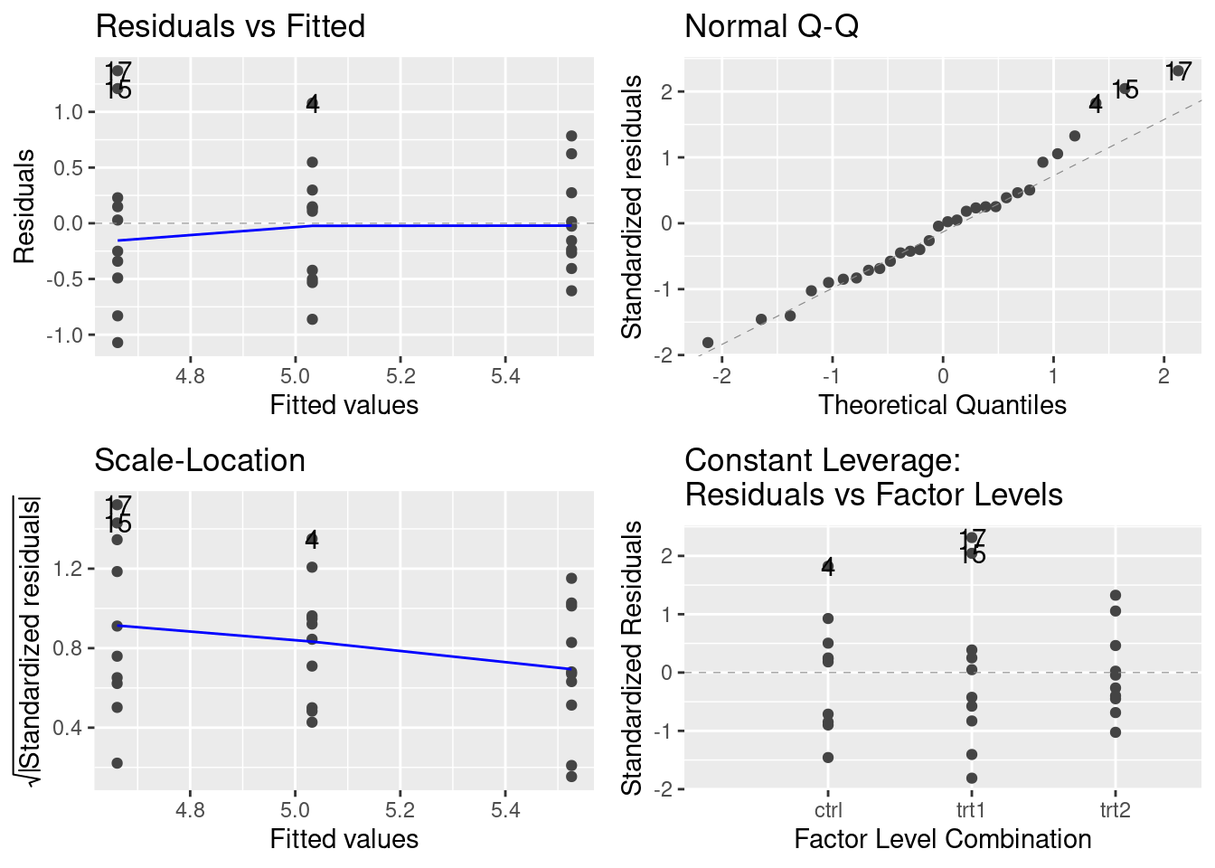
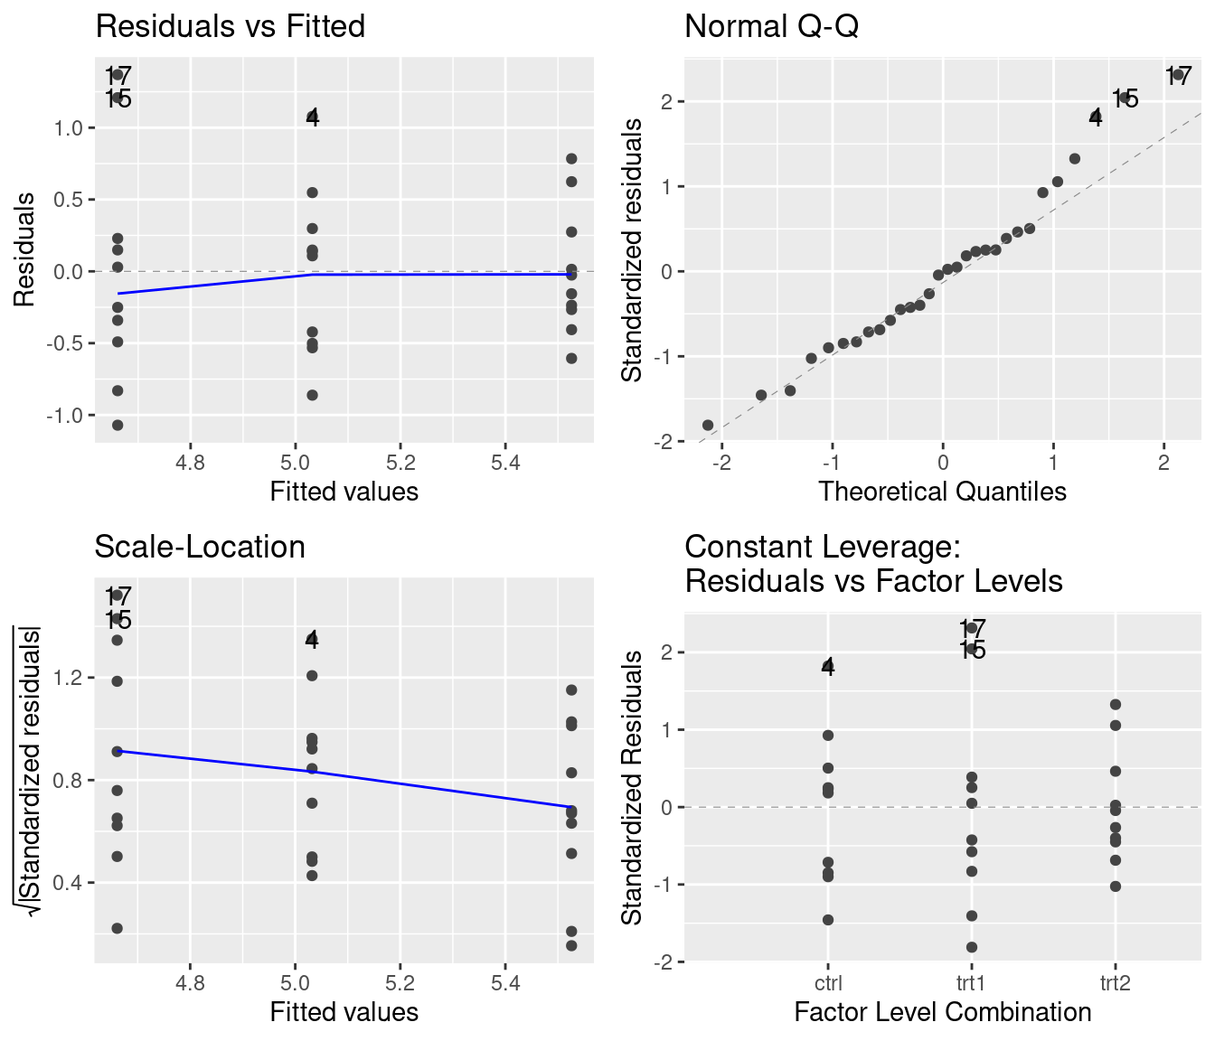
Reworked description of diagnostic plots in ANOVA chapter; changed diagnostic plot layouts everywhere in the book

diff --git a/docs/Anova.html b/docs/Anova.html
@@ -555,22 +555,22 @@ F-statistic: 4.846 on 2 and 27 DF,  p-value: 0.01591</code></pre>
 <p><img src="Anova_files/figure-html/unnamed-chunk-16-1.png" class="img-fluid" width="672"></p>
 </div>
 </div>
-<p>We see four plots above. The top left of these shows the residuals against the fitted values (notice that the three values along the x-axis correspond to the means of the three groups <code>ctrl</code>, <code>trt1</code>, and <code>trt2</code>). If the points have no trend of increase or decrease, and the spread of the points is roughly constant, then they adhere to ANOVA assumptions. The blue line is a moving regression line which helps decide whether there is a trend; in this case, it would be hard to argue that any trend is due to something else than chance.</p>
-<p>The bottom left plot is much the same as the top left one, except that it takes the absolute values of the residuals. This is done because, since residuals will by definition be more or less symmetrically distributed around zero, one can effectively double the precision of the diagnostic by focusing only on magnitudes. For statistical reasons that do not concern us here, the square roots of these absolute values tend to behave much better, which is why we see the square root being taken along the y-axis. The blue line is again a locally-weighted estimate, which ought to be as flat as possible. In this case, we see that it more or less is.</p>
-<p>The top right graph offers a visualization of how well the residuals follow a normal distribution. The idea behind this <em>quantile-quantile plot</em> (Q–Q plot) is that if the residuals are indeed normally distributed, then we can line them up in increasing order along the x-axis, and for each of them, plot the theoretically expected value (based on normality) along the y-axis. If these observed vs.&nbsp;theoretically predicted values fall on the identity line, then there is a perfect match between theory and observation, and the residuals are normally distributed. The stronger the deviation from the dashed line indicating a perfect theoretical match,<a href="#fn3" class="footnote-ref" id="fnref3" role="doc-noteref"><sup>3</sup></a> the more non-normal the residuals are.</p>
+<p>We see four plots above. The top left of these shows the residuals against the fitted values (notice that the three values along the x-axis correspond to the means of the three groups <code>ctrl</code>, <code>trt1</code>, and <code>trt2</code>). If the points have no trends of increase, decrease, valleys, or humps, and the spread of the points is roughly constant, then they adhere to ANOVA assumptions. The blue line is a moving regression line which helps decide whether there is a trend; in this case, it would be hard to argue that any trend is due to something else than chance.</p>
+<p>The bottom left plot is much the same as the top left one, except it takes the absolute values of the residuals. This is done because, since residuals will by definition be more or less symmetrically distributed around zero, one can effectively double the precision of the diagnostic by focusing only on magnitudes. For statistical reasons that do not concern us here, the square roots of these absolute values tend to behave much better, which is why we see the square root being taken along the y-axis. This plot is good for spotting whether the variance of the residuals depends on the fitted values. To satisfy the requirements of ANOVA, there should be no such dependence.<a href="#fn3" class="footnote-ref" id="fnref3" role="doc-noteref"><sup>3</sup></a> The blue line is again a locally-weighted estimate, which ought to be as flat as possible.</p>
+<p>The top right graph offers a visualization of how well the residuals follow a normal distribution. The idea behind this <em>quantile-quantile plot</em> (Q-Q plot) is that if the residuals are indeed normally distributed, then we can line them up in increasing order along the x-axis, and for each of them, plot the theoretically expected value (based on normality) along the y-axis. If these observed vs.&nbsp;theoretically predicted values fall on the dashed straight line, then there is a perfect match between theory and observation, and the residuals are normally distributed. The stronger the deviation from the dashed line indicating a perfect theoretical match, the more non-normal the residuals are.</p>
 <p>The bottom right graph measures the “leverage” of each point, which is a measure of how sensitively the regression reacts to removing one data point. We will not be concerned with this plot.</p>
-<p>In fact, we can remove this graph from the diagnostic plots. We may even remove the top left one, since the bottom left carries the same information in a better way. Further, we can also remove the blue lines, which often do more to confuse than to help. (For example, one can see a slight downward trend in the blue line in the bottom left graph. Looking at all points together reveals how little this trend means.) To select only the bottom-left and top-right diagnostic plots, one can pass the argument <code>which = 3:2</code> to <code>autoplot</code>, which chooses just the third and second of the graphs (in that order). In turn, the <code>smooth.colour = NA</code> argument will remove the blue lines:</p>
+<p>The blue smoother lines in the left two plots often do more to confuse than to help. For example, one can see a slight downward trend in the blue line in the bottom left graph, but looking at all points together reveals how little this trend means. The <code>smooth.colour = NA</code> argument removes the blue lines:</p>
 <div class="cell">
 <div class="sourceCode cell-code" id="cb29"><pre class="sourceCode r code-with-copy"><code class="sourceCode r"><span id="cb29-1"><a href="#cb29-1" aria-hidden="true" tabindex="-1"></a><span class="fu">lm</span>(weight <span class="sc">~</span> group, <span class="at">data =</span> PlantGrowth) <span class="sc">|&gt;</span></span>
-<span id="cb29-2"><a href="#cb29-2" aria-hidden="true" tabindex="-1"></a>  <span class="fu">autoplot</span>(<span class="at">which =</span> <span class="dv">3</span><span class="sc">:</span><span class="dv">2</span>, <span class="at">smooth.colour =</span> <span class="cn">NA</span>)</span></code><button title="Copy to Clipboard" class="code-copy-button"><i class="bi"></i></button></pre></div>
+<span id="cb29-2"><a href="#cb29-2" aria-hidden="true" tabindex="-1"></a>  <span class="fu">autoplot</span>(<span class="at">smooth.colour =</span> <span class="cn">NA</span>)</span></code><button title="Copy to Clipboard" class="code-copy-button"><i class="bi"></i></button></pre></div>
 <div class="cell-output-display">
 <p><img src="Anova_files/figure-html/unnamed-chunk-17-1.png" class="img-fluid" width="672"></p>
 </div>
 </div>
-<p>One may can go even further. Since <code>autoplot</code> returns a standard <code>ggplot</code> object, we can add various theme options:</p>
+<p>One may can go even further. Since <code>autoplot</code> returns a <code>ggplot</code> object, we can add various theme options to make the plot prettier. We can also increase the transparency of the points to better see where and how much they overlap with one another:</p>
 <div class="cell">
 <div class="sourceCode cell-code" id="cb30"><pre class="sourceCode r code-with-copy"><code class="sourceCode r"><span id="cb30-1"><a href="#cb30-1" aria-hidden="true" tabindex="-1"></a><span class="fu">lm</span>(weight <span class="sc">~</span> group, <span class="at">data =</span> PlantGrowth) <span class="sc">|&gt;</span></span>
-<span id="cb30-2"><a href="#cb30-2" aria-hidden="true" tabindex="-1"></a>  <span class="fu">autoplot</span>(<span class="at">which=</span><span class="dv">3</span><span class="sc">:</span><span class="dv">2</span>, <span class="at">smooth.colour=</span><span class="cn">NA</span>, <span class="at">colour=</span><span class="st">"steelblue"</span>, <span class="at">alpha=</span><span class="fl">0.7</span>) <span class="sc">+</span></span>
+<span id="cb30-2"><a href="#cb30-2" aria-hidden="true" tabindex="-1"></a>  <span class="fu">autoplot</span>(<span class="at">smooth.colour =</span> <span class="cn">NA</span>, <span class="at">colour =</span> <span class="st">"steelblue"</span>, <span class="at">alpha =</span> <span class="fl">0.7</span>) <span class="sc">+</span></span>
 <span id="cb30-3"><a href="#cb30-3" aria-hidden="true" tabindex="-1"></a>  <span class="fu">theme_bw</span>()</span></code><button title="Copy to Clipboard" class="code-copy-button"><i class="bi"></i></button></pre></div>
 <div class="cell-output-display">
 <p><img src="Anova_files/figure-html/unnamed-chunk-18-1.png" class="img-fluid" width="672"></p>
@@ -639,7 +639,7 @@ trt2-trt1  0.865  0.1737839 1.5562161 0.0120064</code></pre>
 <ol>
 <li id="fn1"><p>In <a href="Anova_two_way.html"><span>Chapter&nbsp;12</span></a> we will see examples where multiple independent factors are varied, and each possible combination results in a separate group. For example, if the effects of three different dosages of vitamin C are examined on the tooth growth of Guinea pigs, and the vitamin is also supplied in two distinct forms of either orange juice or raw ascorbic acid, then there will be <span class="math inline">\(3 \cdot 2 = 6\)</span> groups, defined by the two factors of dosage and form of supplement.<a href="#fnref1" class="footnote-back" role="doc-backlink">↩</a></p></li>
 <li id="fn2"><p>The Kruskal–Wallis test is sometimes referred to as “non-parametric ANOVA”. While this is perfectly fine as a label, one should be aware that it is, strictly speaking, a misnomer: the Kruskal–Wallis test does not rely on computing variances at all.<a href="#fnref2" class="footnote-back" role="doc-backlink">↩</a></p></li>
-<li id="fn3"><p>Since the comparison is against the <em>standard</em> normal distribution with variance 1, but the data might have any variance, the dashed line might not correspond to the identity line, but to some other straight line. It is still true that the closer the data fall to it, the more perfectly normal the residuals are.<a href="#fnref3" class="footnote-back" role="doc-backlink">↩</a></p></li>
+<li id="fn3"><p>In technical terms, the variation should be <em>homoscedastic</em> (be approximately the same for all values of the predictor) as opposed to <em>heteroscedastic</em>.<a href="#fnref3" class="footnote-back" role="doc-backlink">↩</a></p></li>
 </ol>
 </section>
 

diff --git a/docs/Linear_regression.html b/docs/Linear_regression.html
@@ -419,7 +419,7 @@ F-statistic: 360.9 on 1 and 1076 DF,  p-value: &lt; 2.2e-16</code></pre>
 <div class="sourceCode cell-code" id="cb9"><pre class="sourceCode r code-with-copy"><code class="sourceCode r"><span id="cb9-1"><a href="#cb9-1" aria-hidden="true" tabindex="-1"></a><span class="fu">library</span>(ggfortify)</span>
 <span id="cb9-2"><a href="#cb9-2" aria-hidden="true" tabindex="-1"></a></span>
 <span id="cb9-3"><a href="#cb9-3" aria-hidden="true" tabindex="-1"></a><span class="fu">lm</span>(Son <span class="sc">~</span> Father, <span class="at">data =</span> heightDat) <span class="sc">|&gt;</span></span>
-<span id="cb9-4"><a href="#cb9-4" aria-hidden="true" tabindex="-1"></a>  <span class="fu">autoplot</span>(<span class="at">which=</span><span class="dv">3</span><span class="sc">:</span><span class="dv">2</span>, <span class="at">smooth.colour=</span><span class="cn">NA</span>, <span class="at">colour=</span><span class="st">"steelblue"</span>, <span class="at">alpha=</span><span class="fl">0.4</span>) <span class="sc">+</span></span>
+<span id="cb9-4"><a href="#cb9-4" aria-hidden="true" tabindex="-1"></a>  <span class="fu">autoplot</span>(<span class="at">smooth.colour =</span> <span class="cn">NA</span>, <span class="at">colour =</span> <span class="st">"steelblue"</span>, <span class="at">alpha =</span> <span class="fl">0.3</span>) <span class="sc">+</span></span>
 <span id="cb9-5"><a href="#cb9-5" aria-hidden="true" tabindex="-1"></a>  <span class="fu">theme_bw</span>()</span></code><button title="Copy to Clipboard" class="code-copy-button"><i class="bi"></i></button></pre></div>
 <div class="cell-output-display">
 <p><img src="Linear_regression_files/figure-html/unnamed-chunk-5-1.png" class="img-fluid" width="672"></p>
@@ -503,7 +503,7 @@ Multiple R-squared:  0.6665,    Adjusted R-squared:  0.6295
 F-statistic: 17.99 on 1 and 9 DF,  p-value: 0.00217</code></pre>
 </div>
 <div class="sourceCode cell-code" id="cb17"><pre class="sourceCode r code-with-copy"><code class="sourceCode r"><span id="cb17-1"><a href="#cb17-1" aria-hidden="true" tabindex="-1"></a><span class="fu">lm</span>(y <span class="sc">~</span> x, <span class="at">data =</span> <span class="fu">filter</span>(ans_long, set <span class="sc">==</span> <span class="st">"1"</span>)) <span class="sc">|&gt;</span></span>
-<span id="cb17-2"><a href="#cb17-2" aria-hidden="true" tabindex="-1"></a>  <span class="fu">autoplot</span>(<span class="at">which =</span> <span class="dv">3</span><span class="sc">:</span><span class="dv">2</span>, <span class="at">smooth.colour =</span> <span class="cn">NA</span>, <span class="at">colour =</span> <span class="st">"steelblue"</span>) <span class="sc">+</span></span>
+<span id="cb17-2"><a href="#cb17-2" aria-hidden="true" tabindex="-1"></a>  <span class="fu">autoplot</span>(<span class="at">smooth.colour =</span> <span class="cn">NA</span>, <span class="at">colour =</span> <span class="st">"steelblue"</span>) <span class="sc">+</span></span>
 <span id="cb17-3"><a href="#cb17-3" aria-hidden="true" tabindex="-1"></a>  <span class="fu">theme_bw</span>()</span></code><button title="Copy to Clipboard" class="code-copy-button"><i class="bi"></i></button></pre></div>
 <div class="cell-output-display">
 <p><img src="Linear_regression_files/figure-html/unnamed-chunk-9-1.png" class="img-fluid" width="672"></p>
@@ -534,13 +534,13 @@ Multiple R-squared:  0.6662,    Adjusted R-squared:  0.6292
 F-statistic: 17.97 on 1 and 9 DF,  p-value: 0.002179</code></pre>
 </div>
 <div class="sourceCode cell-code" id="cb20"><pre class="sourceCode r code-with-copy"><code class="sourceCode r"><span id="cb20-1"><a href="#cb20-1" aria-hidden="true" tabindex="-1"></a><span class="fu">lm</span>(y <span class="sc">~</span> x, <span class="at">data =</span> <span class="fu">filter</span>(ans_long, set <span class="sc">==</span> <span class="st">"2"</span>)) <span class="sc">|&gt;</span></span>
-<span id="cb20-2"><a href="#cb20-2" aria-hidden="true" tabindex="-1"></a>  <span class="fu">autoplot</span>(<span class="at">which =</span> <span class="dv">3</span><span class="sc">:</span><span class="dv">2</span>, <span class="at">smooth.colour =</span> <span class="cn">NA</span>, <span class="at">colour =</span> <span class="st">"steelblue"</span>) <span class="sc">+</span></span>
+<span id="cb20-2"><a href="#cb20-2" aria-hidden="true" tabindex="-1"></a>  <span class="fu">autoplot</span>(<span class="at">smooth.colour =</span> <span class="cn">NA</span>, <span class="at">colour =</span> <span class="st">"steelblue"</span>) <span class="sc">+</span></span>
 <span id="cb20-3"><a href="#cb20-3" aria-hidden="true" tabindex="-1"></a>  <span class="fu">theme_bw</span>()</span></code><button title="Copy to Clipboard" class="code-copy-button"><i class="bi"></i></button></pre></div>
 <div class="cell-output-display">
 <p><img src="Linear_regression_files/figure-html/unnamed-chunk-10-1.png" class="img-fluid" width="672"></p>
 </div>
 </div>
-<p>Blindly reading off the p-values without considering the diagnostic plots might lead one to take them seriously. This would be wrong however, as the assumptions of the linear regression are clearly not fulfilled based on the diagnostic plots. Especially the left one shows that the residuals are not independent, and certainly not identically and normally distributed.</p>
+<p>Blindly reading off the p-values without considering the diagnostic plots might lead one to take them seriously. This would be wrong however, as the assumptions of the linear regression are clearly not fulfilled based on the diagnostic plots. The left ones show that the residuals are not independent, and certainly not homoscedastic. The Q-Q plot additionally shows that they are not even normally distributed.</p>
 <p>In set 3, the trends are driven too much by a single outlier:</p>
 <div class="cell">
 <div class="sourceCode cell-code" id="cb21"><pre class="sourceCode r code-with-copy"><code class="sourceCode r"><span id="cb21-1"><a href="#cb21-1" aria-hidden="true" tabindex="-1"></a><span class="fu">lm</span>(y <span class="sc">~</span> x, <span class="at">data =</span> <span class="fu">filter</span>(ans_long, set <span class="sc">==</span> <span class="st">"3"</span>)) <span class="sc">|&gt;</span> <span class="fu">summary</span>()</span></code><button title="Copy to Clipboard" class="code-copy-button"><i class="bi"></i></button></pre></div>
@@ -565,7 +565,7 @@ Multiple R-squared:  0.6663,    Adjusted R-squared:  0.6292
 F-statistic: 17.97 on 1 and 9 DF,  p-value: 0.002176</code></pre>
 </div>
 <div class="sourceCode cell-code" id="cb23"><pre class="sourceCode r code-with-copy"><code class="sourceCode r"><span id="cb23-1"><a href="#cb23-1" aria-hidden="true" tabindex="-1"></a><span class="fu">lm</span>(y <span class="sc">~</span> x, <span class="at">data =</span> <span class="fu">filter</span>(ans_long, set <span class="sc">==</span> <span class="st">"3"</span>)) <span class="sc">|&gt;</span></span>
-<span id="cb23-2"><a href="#cb23-2" aria-hidden="true" tabindex="-1"></a>  <span class="fu">autoplot</span>(<span class="at">which =</span> <span class="dv">3</span><span class="sc">:</span><span class="dv">2</span>, <span class="at">smooth.colour =</span> <span class="cn">NA</span>, <span class="at">colour =</span> <span class="st">"steelblue"</span>) <span class="sc">+</span></span>
+<span id="cb23-2"><a href="#cb23-2" aria-hidden="true" tabindex="-1"></a>  <span class="fu">autoplot</span>(<span class="at">smooth.colour =</span> <span class="cn">NA</span>, <span class="at">colour =</span> <span class="st">"steelblue"</span>) <span class="sc">+</span></span>
 <span id="cb23-3"><a href="#cb23-3" aria-hidden="true" tabindex="-1"></a>  <span class="fu">theme_bw</span>()</span></code><button title="Copy to Clipboard" class="code-copy-button"><i class="bi"></i></button></pre></div>
 <div class="cell-output-display">
 <p><img src="Linear_regression_files/figure-html/unnamed-chunk-11-1.png" class="img-fluid" width="672"></p>
@@ -595,7 +595,7 @@ Multiple R-squared:  0.6667,    Adjusted R-squared:  0.6297
 F-statistic:    18 on 1 and 9 DF,  p-value: 0.002165</code></pre>
 </div>
 <div class="sourceCode cell-code" id="cb26"><pre class="sourceCode r code-with-copy"><code class="sourceCode r"><span id="cb26-1"><a href="#cb26-1" aria-hidden="true" tabindex="-1"></a><span class="fu">lm</span>(y <span class="sc">~</span> x, <span class="at">data =</span> <span class="fu">filter</span>(ans_long, set <span class="sc">==</span> <span class="st">"4"</span>)) <span class="sc">|&gt;</span></span>
-<span id="cb26-2"><a href="#cb26-2" aria-hidden="true" tabindex="-1"></a>  <span class="fu">autoplot</span>(<span class="at">which =</span> <span class="dv">3</span><span class="sc">:</span><span class="dv">2</span>, <span class="at">smooth.colour =</span> <span class="cn">NA</span>, <span class="at">colour =</span> <span class="st">"steelblue"</span>) <span class="sc">+</span></span>
+<span id="cb26-2"><a href="#cb26-2" aria-hidden="true" tabindex="-1"></a>  <span class="fu">autoplot</span>(<span class="at">smooth.colour =</span> <span class="cn">NA</span>, <span class="at">colour =</span> <span class="st">"steelblue"</span>) <span class="sc">+</span></span>
 <span id="cb26-3"><a href="#cb26-3" aria-hidden="true" tabindex="-1"></a>  <span class="fu">theme_bw</span>()</span></code><button title="Copy to Clipboard" class="code-copy-button"><i class="bi"></i></button></pre></div>
 <div class="cell-output-display">
 <p><img src="Linear_regression_files/figure-html/unnamed-chunk-12-1.png" class="img-fluid" width="672"></p>

diff --git a/docs/Nonlinear_regression.html b/docs/Nonlinear_regression.html
@@ -410,13 +410,13 @@ Signif. codes:  0 '***' 0.001 '**' 0.01 '*' 0.05 '.' 0.1 ' ' 1</code></pre>
 <div class="sourceCode cell-code" id="cb7"><pre class="sourceCode r code-with-copy"><code class="sourceCode r"><span id="cb7-1"><a href="#cb7-1" aria-hidden="true" tabindex="-1"></a><span class="fu">library</span>(ggfortify)</span>
 <span id="cb7-2"><a href="#cb7-2" aria-hidden="true" tabindex="-1"></a></span>
 <span id="cb7-3"><a href="#cb7-3" aria-hidden="true" tabindex="-1"></a><span class="fu">lm</span>(uptake <span class="sc">~</span> conc <span class="sc">+</span> Type <span class="sc">*</span> Treatment, <span class="at">data =</span> CO2) <span class="sc">|&gt;</span></span>
-<span id="cb7-4"><a href="#cb7-4" aria-hidden="true" tabindex="-1"></a>  <span class="fu">autoplot</span>(<span class="at">which=</span><span class="dv">3</span><span class="sc">:</span><span class="dv">2</span>, <span class="at">smooth.colour=</span><span class="cn">NA</span>, <span class="at">colour=</span><span class="st">"steelblue"</span>, <span class="at">alpha=</span><span class="fl">0.7</span>) <span class="sc">+</span></span>
+<span id="cb7-4"><a href="#cb7-4" aria-hidden="true" tabindex="-1"></a>  <span class="fu">autoplot</span>(<span class="at">smooth.colour =</span> <span class="cn">NA</span>, <span class="at">colour =</span> <span class="st">"steelblue"</span>, <span class="at">alpha =</span> <span class="fl">0.7</span>) <span class="sc">+</span></span>
 <span id="cb7-5"><a href="#cb7-5" aria-hidden="true" tabindex="-1"></a>  <span class="fu">theme_bw</span>()</span></code><button title="Copy to Clipboard" class="code-copy-button"><i class="bi"></i></button></pre></div>
 <div class="cell-output-display">
 <p><img src="Nonlinear_regression_files/figure-html/unnamed-chunk-5-1.png" class="img-fluid" width="672"></p>
 </div>
 </div>
-<p>While the Q–Q plot could be better, there is not much reason not to trust the model—other than the fact, of course, that the data in fact depend on concentrations in a manifestly nonlinear way. We will come back to this point in <a href="#sec-nonlin-regression"><span>Section&nbsp;14.2</span></a>.</p>
+<p>The Q-Q plot is less than amazing. Otherwise, given that the data in fact depend on concentrations in a manifestly nonlinear way, the diagnostics look surprisingly good. We will come back to the point about nonlinearity in <a href="#sec-nonlin-regression"><span>Section&nbsp;14.2</span></a>.</p>
 <p>It is also informative to apply the function <code>summary</code> on the model fit in addition to <code>anova</code>, to obtain the regression slopes and intercept:</p>
 <div class="cell">
 <div class="sourceCode cell-code" id="cb8"><pre class="sourceCode r code-with-copy"><code class="sourceCode r"><span id="cb8-1"><a href="#cb8-1" aria-hidden="true" tabindex="-1"></a><span class="fu">lm</span>(uptake <span class="sc">~</span> conc <span class="sc">+</span> Type <span class="sc">*</span> Treatment, <span class="at">data =</span> CO2) <span class="sc">|&gt;</span> <span class="fu">summary</span>()</span></code><button title="Copy to Clipboard" class="code-copy-button"><i class="bi"></i></button></pre></div>
@@ -491,7 +491,7 @@ Multiple R-squared:  0.7376,    Adjusted R-squared:  0.7134
 F-statistic: 30.52 on 7 and 76 DF,  p-value: &lt; 2.2e-16</code></pre>
 </div>
 <div class="sourceCode cell-code" id="cb14"><pre class="sourceCode r code-with-copy"><code class="sourceCode r"><span id="cb14-1"><a href="#cb14-1" aria-hidden="true" tabindex="-1"></a><span class="fu">lm</span>(uptake <span class="sc">~</span> conc <span class="sc">*</span> Type <span class="sc">*</span> Treatment, <span class="at">data =</span> CO2) <span class="sc">|&gt;</span></span>
-<span id="cb14-2"><a href="#cb14-2" aria-hidden="true" tabindex="-1"></a>  <span class="fu">autoplot</span>(<span class="at">which=</span><span class="dv">3</span><span class="sc">:</span><span class="dv">2</span>, <span class="at">smooth.colour=</span><span class="cn">NA</span>, <span class="at">colour=</span><span class="st">"steelblue"</span>, <span class="at">alpha=</span><span class="fl">0.7</span>) <span class="sc">+</span></span>
+<span id="cb14-2"><a href="#cb14-2" aria-hidden="true" tabindex="-1"></a>  <span class="fu">autoplot</span>(<span class="at">smooth.colour =</span> <span class="cn">NA</span>, <span class="at">colour =</span> <span class="st">"steelblue"</span>, <span class="at">alpha =</span> <span class="fl">0.7</span>) <span class="sc">+</span></span>
 <span id="cb14-3"><a href="#cb14-3" aria-hidden="true" tabindex="-1"></a>  <span class="fu">theme_bw</span>()</span></code><button title="Copy to Clipboard" class="code-copy-button"><i class="bi"></i></button></pre></div>
 <div class="cell-output-display">
 <p><img src="Nonlinear_regression_files/figure-html/unnamed-chunk-7-1.png" class="img-fluid" width="672"></p>

diff --git a/docs/Anova_two_way.html b/docs/Anova_two_way.html
@@ -418,7 +418,7 @@ Signif. codes:  0 '***' 0.001 '**' 0.01 '*' 0.05 '.' 0.1 ' ' 1</code></pre>
 <span id="cb10-3"><a href="#cb10-3" aria-hidden="true" tabindex="-1"></a>ToothGrowth <span class="sc">|&gt;</span></span>
 <span id="cb10-4"><a href="#cb10-4" aria-hidden="true" tabindex="-1"></a>  <span class="fu">mutate</span>(<span class="at">dose =</span> <span class="fu">as_factor</span>(dose)) <span class="sc">|&gt;</span></span>
 <span id="cb10-5"><a href="#cb10-5" aria-hidden="true" tabindex="-1"></a>  <span class="fu">lm</span>(len <span class="sc">~</span> dose <span class="sc">*</span> supp, <span class="at">data =</span> _) <span class="sc">|&gt;</span></span>
-<span id="cb10-6"><a href="#cb10-6" aria-hidden="true" tabindex="-1"></a>  <span class="fu">autoplot</span>(<span class="at">which=</span><span class="dv">3</span><span class="sc">:</span><span class="dv">2</span>, <span class="at">smooth.colour=</span><span class="cn">NA</span>, <span class="at">colour=</span><span class="st">"steelblue"</span>, <span class="at">alpha=</span><span class="fl">0.7</span>) <span class="sc">+</span></span>
+<span id="cb10-6"><a href="#cb10-6" aria-hidden="true" tabindex="-1"></a>  <span class="fu">autoplot</span>(<span class="at">smooth.colour =</span> <span class="cn">NA</span>, <span class="at">colour =</span> <span class="st">"steelblue"</span>, <span class="at">alpha =</span> <span class="fl">0.7</span>) <span class="sc">+</span></span>
 <span id="cb10-7"><a href="#cb10-7" aria-hidden="true" tabindex="-1"></a>  <span class="fu">theme_bw</span>()</span></code><button title="Copy to Clipboard" class="code-copy-button"><i class="bi"></i></button></pre></div>
 <div class="cell-output-display">
 <p><img src="Anova_two_way_files/figure-html/unnamed-chunk-6-1.png" class="img-fluid" width="672"></p>
